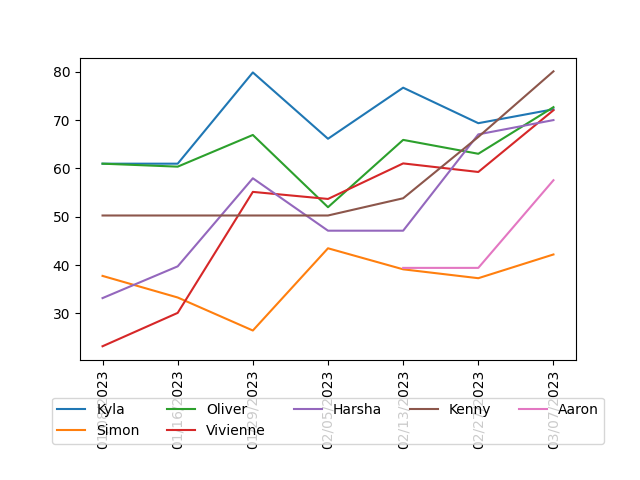
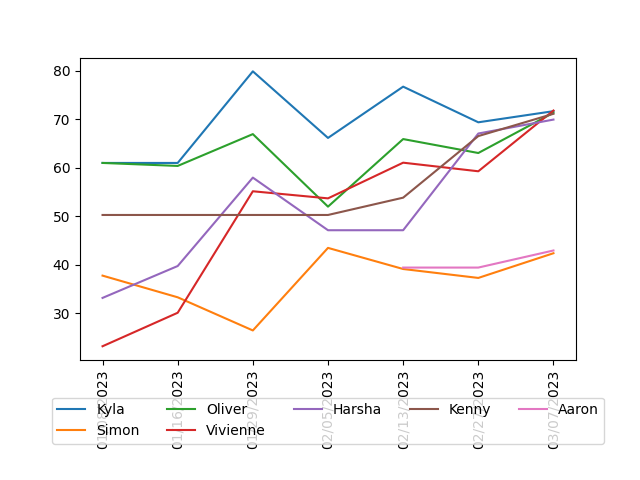
update rankings

diff --git a/parse_results.py b/parse_results.py
@@ -7,6 +7,7 @@ from   trueskill import TrueSkill
 LUCK_FACTORS = {
         'Exploding Kittens': 10.0,
         'Incan Gold': 10.0,
+        'Coup' : 3.0,
         }
 
 class RatingsInfo:

diff --git a/README.md b/README.md
@@ -5,34 +5,34 @@
 
 | Player | ELO | Wins | Losses | Win % | Best Game |
 | --- | --- | --- | --- | --- | --- |
-| Kenny | 80.10 | 11 | 8 | 0.58 | Coup |
-| Oliver | 72.69 | 15 | 12 | 0.56 | Secret Hitler |
-| Kyla | 72.25 | 13 | 12 | 0.52 | Secret Hitler |
-| Vivienne | 72.05 | 13 | 7 | 0.65 | Secret Hitler |
-| Harsha | 70.01 | 12 | 9 | 0.57 | Secret Hitler |
+| Vivienne | 71.79 | 13 | 7 | 0.65 | Secret Hitler |
+| Kyla | 71.66 | 13 | 12 | 0.52 | Secret Hitler |
+| Oliver | 71.34 | 15 | 12 | 0.56 | Secret Hitler |
+| Kenny | 71.12 | 11 | 8 | 0.58 | Secret Hitler |
+| Harsha | 69.93 | 12 | 9 | 0.57 | Secret Hitler |
 | Karen | 69.00 | 2 | 1 | 0.67 | Codenames |
 | Diana | 64.95 | 2 | 2 | 0.50 | Codenames |
 | Rob | 63.15 | 3 | 1 | 0.75 | Codenames |
-| Aaron | 57.56 | 4 | 7 | 0.36 | Coup |
-| Queenie | 56.27 | 2 | 4 | 0.33 | Coup |
 | Frances | 52.22 | 3 | 1 | 0.75 | Codenames |
 | Jason | 47.52 | 3 | 4 | 0.43 | Wavelength |
-| Simon | 42.19 | 6 | 13 | 0.32 | Wavelength |
-| Yoyo | 42.05 | 1 | 1 | 0.50 | Secret Hitler |
+| Aaron | 42.94 | 4 | 7 | 0.36 | Secret Hitler |
+| Simon | 42.37 | 6 | 13 | 0.32 | Wavelength |
 | Eunice | 41.96 | 1 | 1 | 0.50 | Wavelength |
 | Dari | 41.73 | 2 | 2 | 0.50 | Codenames |
-| Calvin | 33.21 | 2 | 6 | 0.25 | Secret Hitler |
+| Yoyo | 41.68 | 1 | 1 | 0.50 | Secret Hitler |
+| Queenie | 38.67 | 2 | 4 | 0.33 | Secret Hitler |
 | Abhi | 33.13 | 1 | 1 | 0.50 | Secret Hitler |
 | Peter | 33.13 | 1 | 1 | 0.50 | Secret Hitler |
-| Nikini | 32.33 | 1 | 1 | 0.50 | Secret Hitler |
+| Calvin | 32.66 | 2 | 6 | 0.25 | Secret Hitler |
+| Nikini | 32.36 | 1 | 1 | 0.50 | Secret Hitler |
 | Agnes | 27.82 | 1 | 4 | 0.20 | Avalon |
 | Katrina | 25.63 | 2 | 3 | 0.40 | Codenames |
-| Ashley | 21.77 | 0 | 2 | 0.00 | Secret Hitler |
+| Ashley | 21.75 | 0 | 2 | 0.00 | Secret Hitler |
 | Sandy | 21.08 | 0 | 2 | 0.00 | Codenames |
 | Vivian | 18.94 | 0 | 2 | 0.00 | Secret Hitler |
 | Louise | 15.50 | 0 | 5 | 0.00 | Incan Gold |
+| Ellabelle | 8.67 | 0 | 5 | 0.00 | Codenames |
 | Shirley | 8.62 | 0 | 4 | 0.00 | Wavelength |
-| Ellabelle | 8.32 | 0 | 5 | 0.00 | Codenames |
 
 ### Rankings over Time
 ![Image](rankings.png)
@@ -161,10 +161,10 @@
 
 | Player | ELO | Wins | Losses | Win % |
 | --- | --- | --- | --- | --- |
-| Kenny | 68.19  | 1 | 0 | 1.00 |
-| Queenie | 49.71  | 0 | 1 | 0.00 |
-| Aaron | 49.71  | 0 | 1 | 0.00 |
-| Oliver | 49.71  | 0 | 1 | 0.00 |
+| Kenny | 51.20  | 1 | 0 | 1.00 |
+| Queenie | 36.91  | 0 | 1 | 0.00 |
+| Aaron | 36.91  | 0 | 1 | 0.00 |
+| Oliver | 36.91  | 0 | 1 | 0.00 |
 
 ### Shifty Eyed Spies
 
